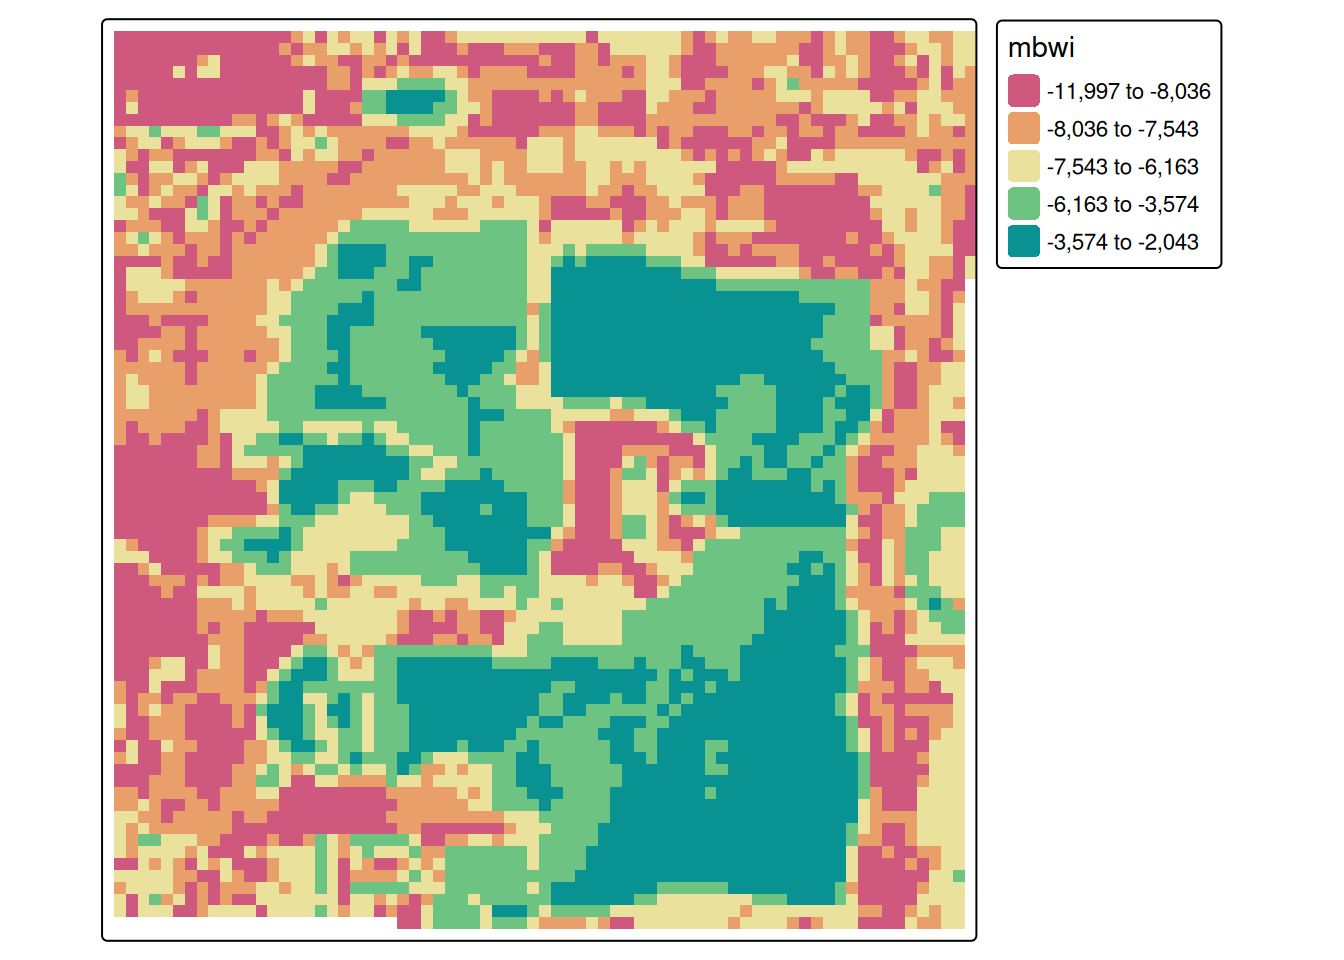
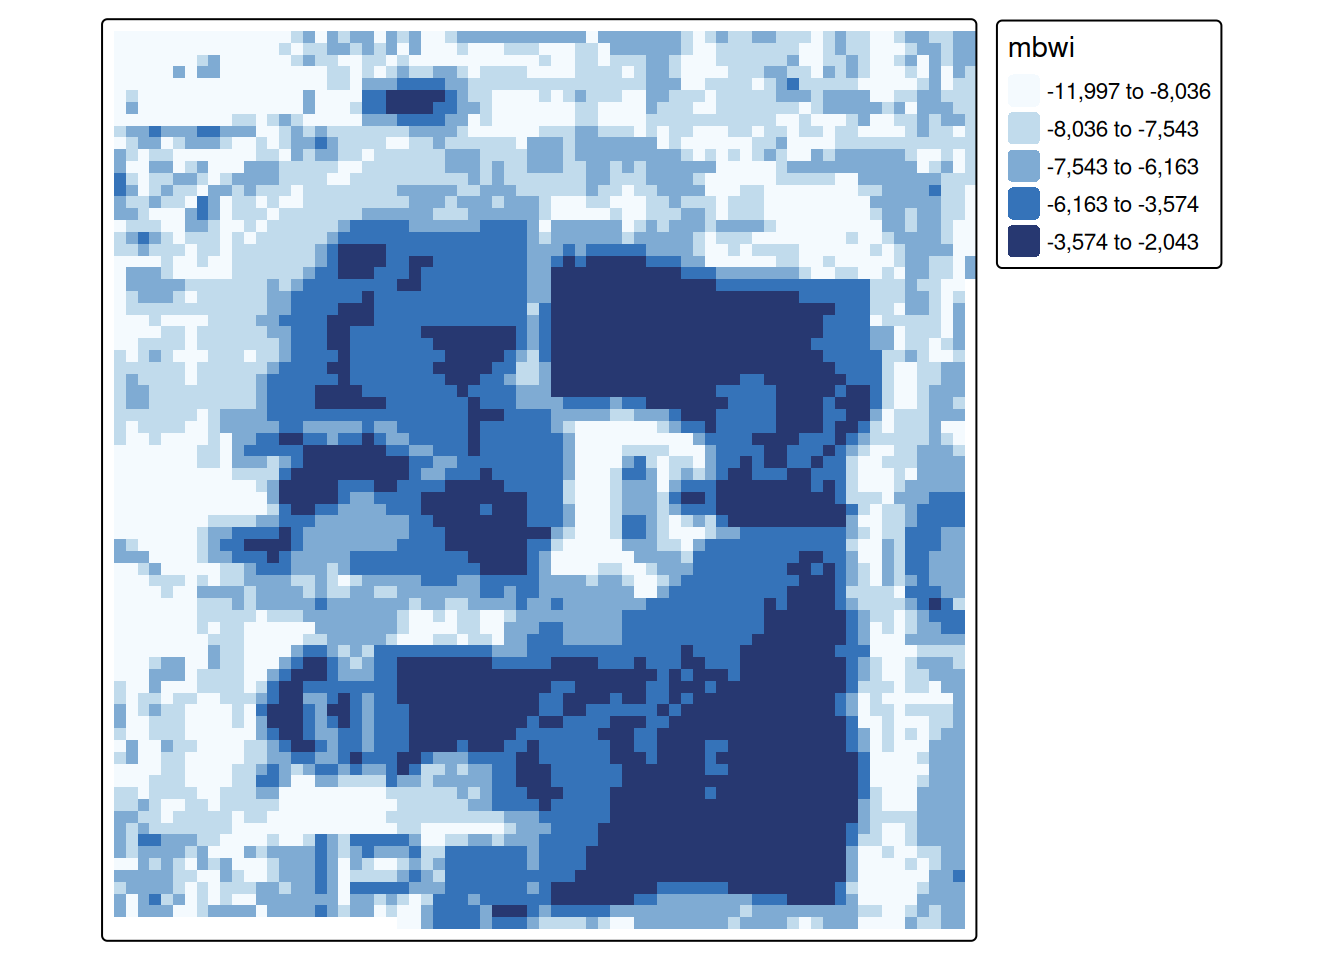
fixing last post

diff --git a/docs/posts/2025-05-13_vegetation-indices/index.html b/docs/posts/2025-05-13_vegetation-indices/index.html
@@ -298,7 +298,7 @@ Online:  1 </code></pre>
 <span id="cb10-2"><a href="#cb10-2" aria-hidden="true" tabindex="-1"></a>                      <span class="at">vi =</span> <span class="st">'other'</span>,</span>
 <span id="cb10-3"><a href="#cb10-3" aria-hidden="true" tabindex="-1"></a>                      <span class="at">formula =</span> mbwi <span class="sc">~</span> (<span class="dv">2</span> <span class="sc">*</span> B03 <span class="sc">-</span> B04 <span class="sc">-</span> B08 <span class="sc">-</span> B11 <span class="sc">-</span> B12),</span>
 <span id="cb10-4"><a href="#cb10-4" aria-hidden="true" tabindex="-1"></a>                      <span class="at">verbose =</span> <span class="cn">FALSE</span>)</span>
-<span id="cb10-5"><a href="#cb10-5" aria-hidden="true" tabindex="-1"></a><span class="fu">pa_plot</span>(mbwi)</span></code><button title="Copy to Clipboard" class="code-copy-button"><i class="bi"></i></button></pre></div>
+<span id="cb10-5"><a href="#cb10-5" aria-hidden="true" tabindex="-1"></a><span class="fu">pa_plot</span>(mbwi, <span class="at">palette =</span> <span class="st">'Blues'</span>) <span class="do">## blue colors for water!</span></span></code><button title="Copy to Clipboard" class="code-copy-button"><i class="bi"></i></button></pre></div>
 <div class="cell-output-display">
 <div>
 <figure class="figure">

diff --git a/docs/index.html b/docs/index.html
@@ -228,7 +228,7 @@ Author
 </tr>
 </thead>
 <tbody class="list">
-<tr data-index="0" data-categories="pacu,remote sensing" data-listing-date-sort="1747112400000" data-listing-file-modified-sort="1747171001695" data-listing-date-modified-sort="NaN" data-listing-reading-time-sort="6" data-listing-word-count-sort="1055" data-listing-title-sort="Specifying custom vegetation indices" data-listing-filename-sort="index.qmd">
+<tr data-index="0" data-categories="pacu,remote sensing" data-listing-date-sort="1747112400000" data-listing-file-modified-sort="1747171387802" data-listing-date-modified-sort="NaN" data-listing-reading-time-sort="6" data-listing-word-count-sort="1063" data-listing-title-sort="Specifying custom vegetation indices" data-listing-filename-sort="index.qmd">
 <td>
 <span class="listing-date">May 13, 2025</span>
 </td>
